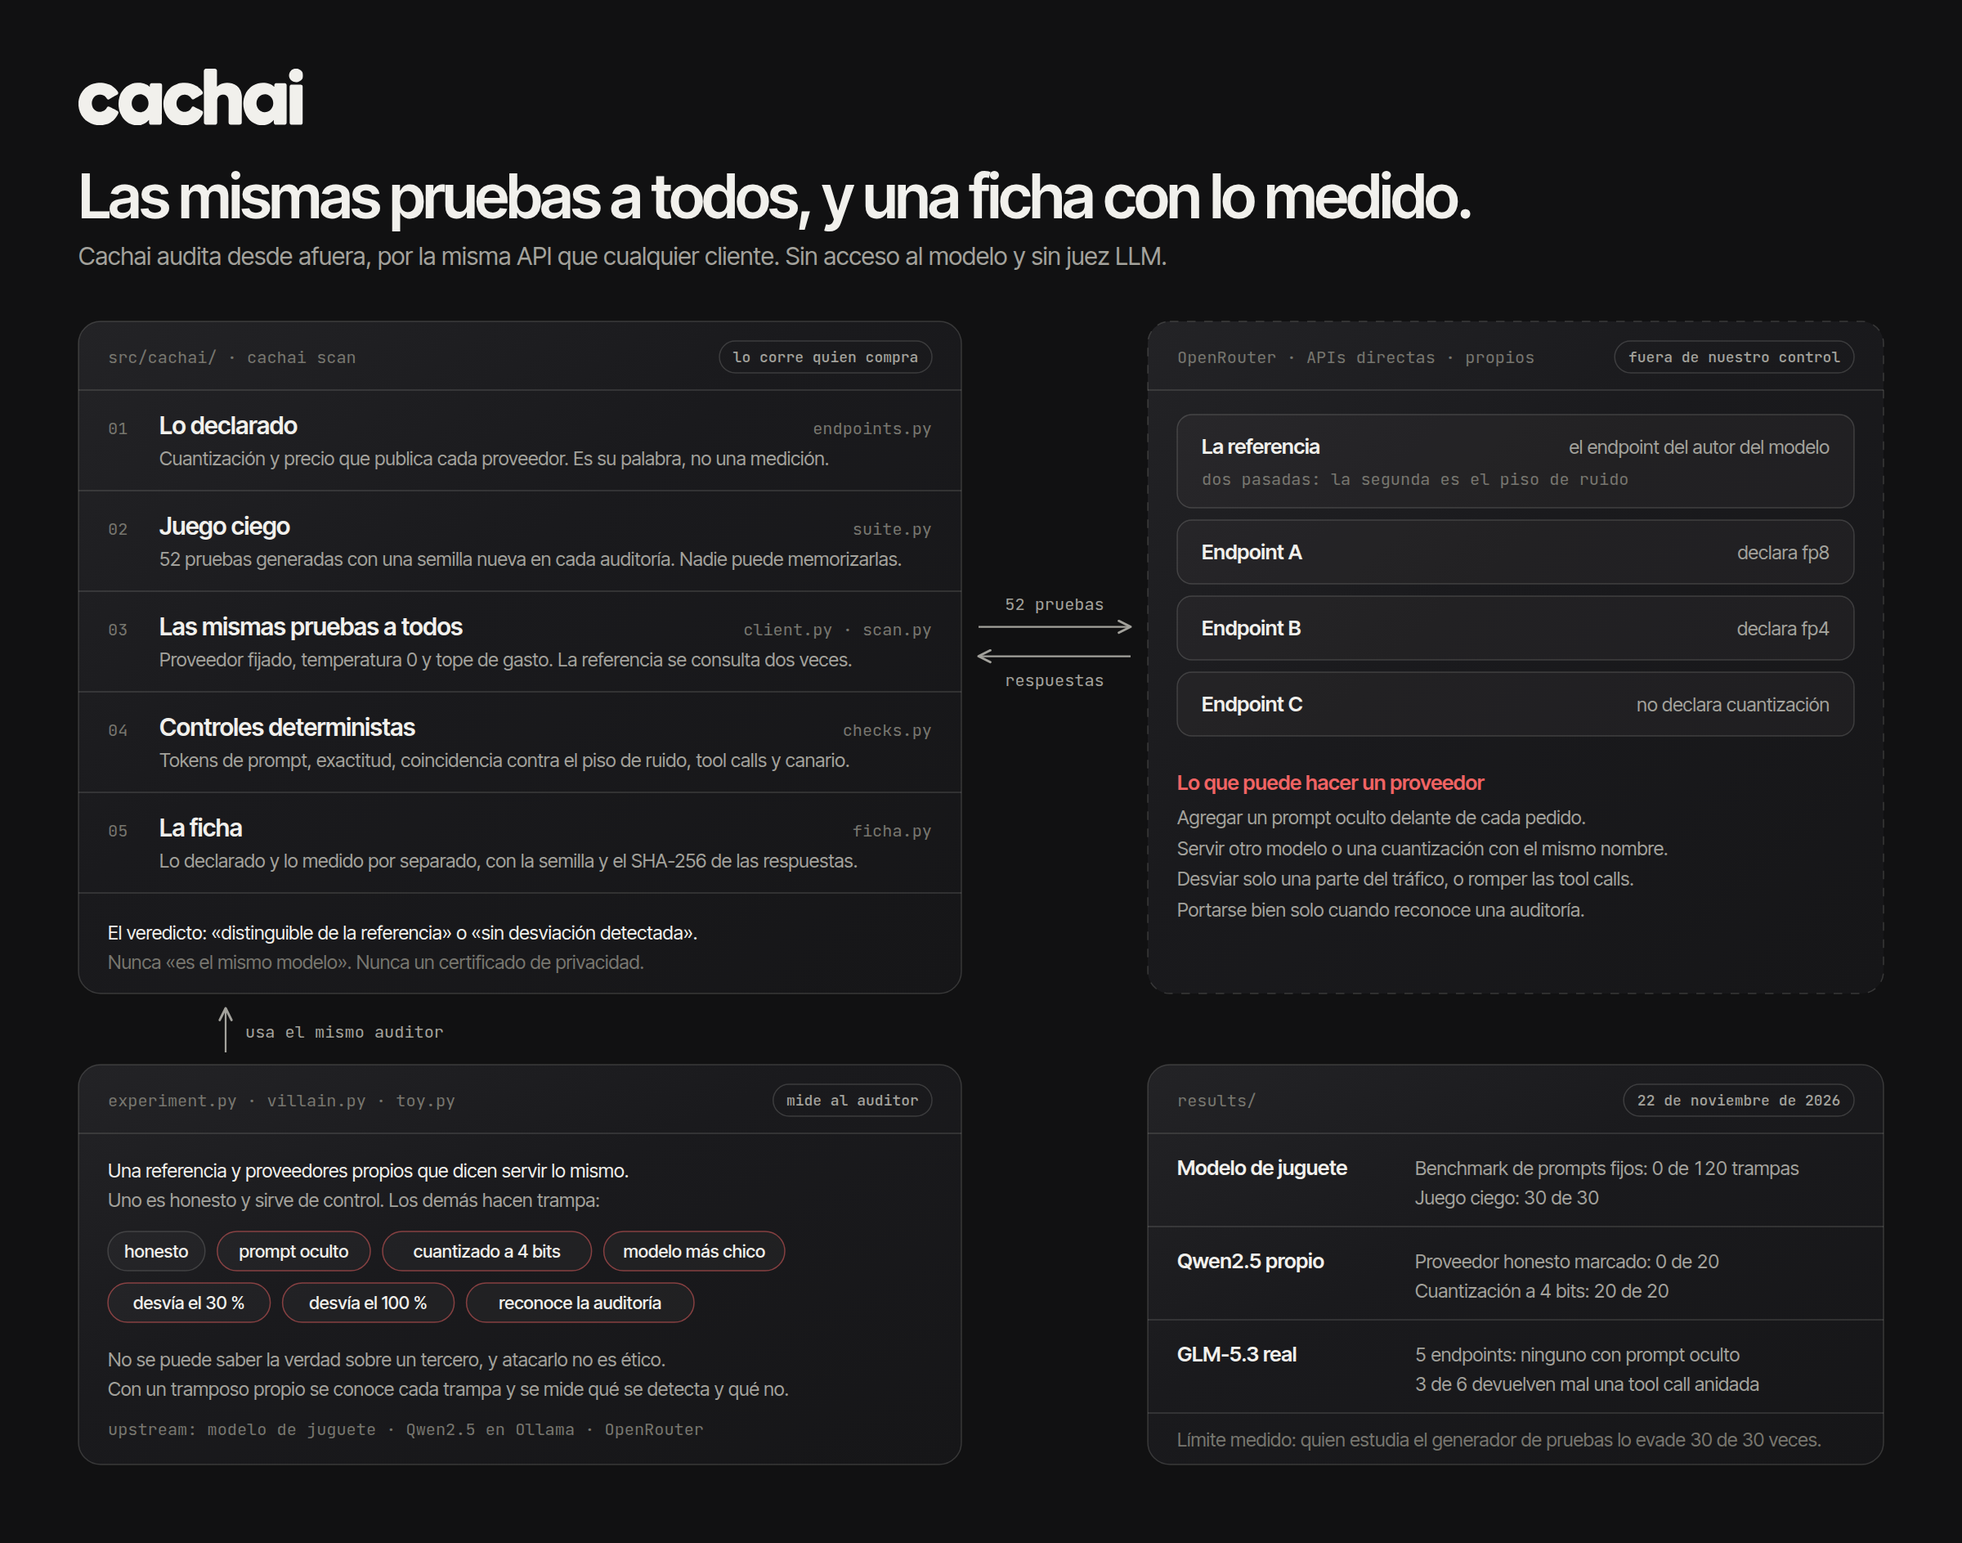
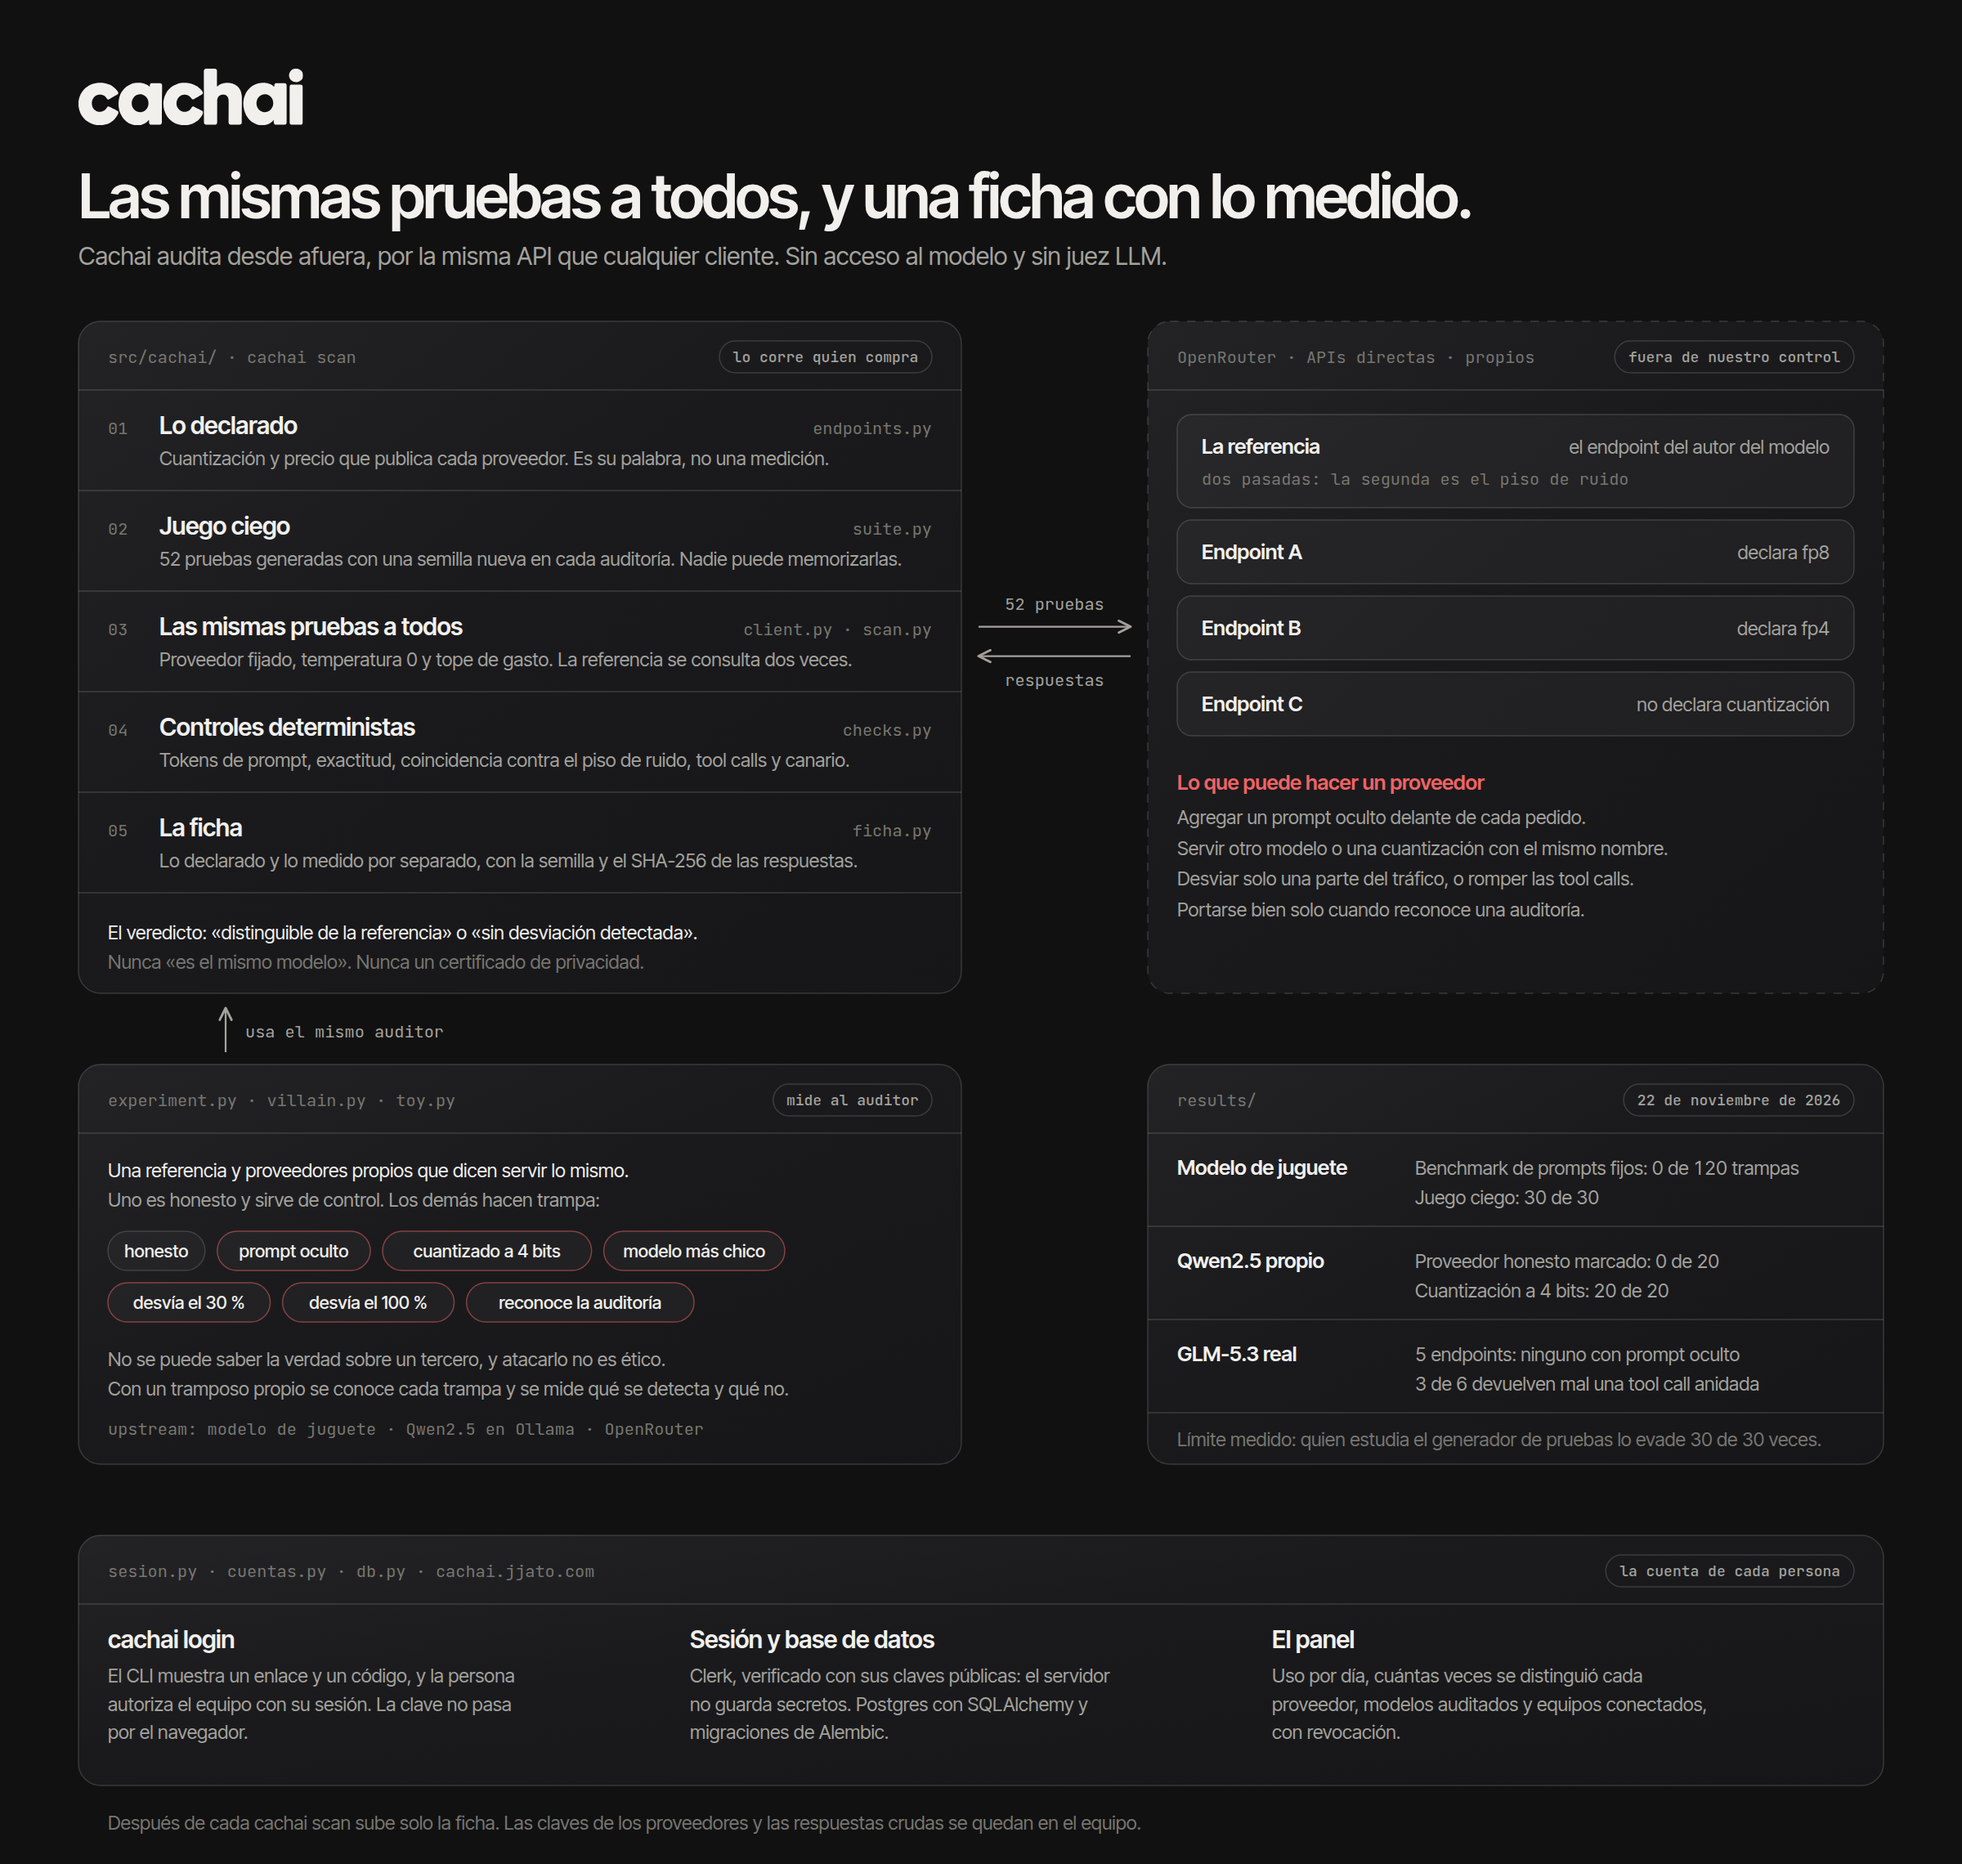
Documentación al día con las cuentas, y el diagrama con el bloque de cuentas y panel
El README explica las cuentas dentro de la arquitectura, los ejemplos y el
documento del auditor piden cachai login antes de scan, y la descripción
del proyecto suma la cuenta y el panel. El estado del auditor ya no dice
que nunca corrió contra proveedores reales.

diff --git a/README.md b/README.md
@@ -140,7 +140,7 @@ Tres reglas salieron de auditar proveedores reales y evitan marcar a alguien por
 
 ![Arquitectura de Cachai](docs/arquitectura.png)
 
-Son tres piezas: el **auditor**, que mide endpoints reales; el **laboratorio**, que mide al auditor contra proveedores tramposos propios; y la **ficha**, que publica lo medido con su evidencia.
+Son cuatro piezas: el **auditor**, que mide endpoints reales; el **laboratorio**, que mide al auditor contra proveedores tramposos propios; la **ficha**, que publica lo medido con su evidencia; y las **cuentas**, que guardan el historial de cada persona y lo muestran en un panel.
 
 **El auditor** (`cachai scan`) recorre cinco pasos:
 
@@ -153,6 +153,8 @@ Son tres piezas: el **auditor**, que mide endpoints reales; el **laboratorio**, 
 **El laboratorio** (`cachai experimento`) responde otra pregunta: ¿el auditor detecta lo que dice detectar? No se puede saber la verdad sobre un tercero, y atacarlo no es ético, así que el auditor se mide contra un proveedor tramposo propio (`villain.py`): un proxy que inyecta un prompt, desvía una fracción del tráfico a un modelo más barato y se porta bien cuando reconoce una auditoría. Una referencia y varios proxies hacia el mismo modelo (uno honesto, como control de falsas alarmas, y el resto tramposos) se auditan con el juego fijo y con el ciego. Corre sin claves contra un modelo de juguete (`toy.py`), contra un modelo real servido por nosotros con Ollama (Qwen2.5 en Q8, con proveedores que sirven Q4, Q2 o un modelo más chico) o contra OpenRouter.
 
 **La referencia** es el endpoint del autor del modelo cuando existe (si no, uno que se elige con `--reference`), consultado por la misma ruta que los demás. Así la comparación aísla al proveedor, sin GPU propia. Es una referencia más débil que correr el modelo original y la ficha lo dice.
+
+**Las cuentas** (`cachai login`, [cachai.jjato.com/panel](https://cachai.jjato.com/panel)) guardan la ficha de cada auditoría. El inicio de sesión es de Clerk y el servidor lo verifica con las claves públicas de la instancia, sin guardar ningún secreto. `cachai login` no pasa la clave por el navegador: el CLI inventa un verificador, la persona autoriza su huella con la sesión abierta y el CLI la canjea una sola vez. Los datos van a Postgres (SQLAlchemy y Alembic): usuarios, claves, auditorías y una fila de mediciones por endpoint, que es lo que suma el panel.
 
 Las decisiones, con las alternativas descartadas y su porqué, están en [`docs/arquitectura.md`](docs/arquitectura.md#3-decisiones-y-alternativas-descartadas).
 

diff --git a/docs/cachai-auditor.md b/docs/cachai-auditor.md
@@ -24,11 +24,14 @@ desviación detectada**, que no significa "es el mismo modelo".
 ```bash
 uv sync
 uv run cachai endpoints z-ai/glm-5.3          # sin clave: qué declara cada proveedor
+uv run cachai login                           # una vez: conecta este equipo con tu cuenta
 uv run cachai scan deepseek/deepseek-v4.1-flash --providers 6 --max-usd 2
 uv run cachai scan deepseek/deepseek-v4.1-flash --only wafer/us,sail-research/fp4 \
   --direct 50x=https://api.ai.50x.energy/v1,FIFTYX_API_KEY,deepseek-ai/DeepSeek-V4.1-Flash-1017
 ```
 
+- `scan` pide una cuenta (`cachai login`, una vez) y sube la ficha al panel; con
+  `--no-subir` queda solo en local.
 - `scan` necesita `OPENROUTER_API_KEY` en `.env`. La referencia es el proveedor
   first-party si está en la lista; si no, `--reference NOMBRE` o `consenso`.
 - Por defecto el juego de pruebas es ciego: se genera con una semilla que queda en la
@@ -85,14 +88,18 @@ Resultados en `results/linea-base/` y su lectura en [`arquitectura.md`](arquitec
 
 ## Estado (22-nov)
 
-- Corre de punta a punta contra el juguete y el tramposo; 27 tests (`uv run pytest -q`).
-- `cachai endpoints` está probado contra la API real de OpenRouter.
-- **Nunca corrió contra proveedores reales**: no había clave en `.env`. Falta confirmar
-  con una llamada que OpenRouter devuelve `prompt_tokens` nativos con el proveedor
-  fijado, que `provider.only` acepta el `tag` del endpoint y que los modelos con
-  razonamiento responden dentro de `max_tokens`.
+- 69 tests de punta a punta, sin red ni claves (`uv run pytest -q`).
+- Corrió contra proveedores reales: cinco endpoints de GLM-5.3 en OpenRouter contra el del
+  autor, 364 respuestas sin errores. La ficha y su lectura están en
+  [`results/proveedores/`](../results/proveedores/).
+- Corrió 20 veces por caso contra Qwen2.5 servido por nosotros en Ollama
+  ([`results/linea-base/`](../results/linea-base/)).
+- `cachai scan` pide una cuenta (`cachai login`) y sube la ficha al panel de
+  [cachai.jjato.com](https://cachai.jjato.com/panel); `cachai demo` no la pide.
 - Un proveedor que además falsee el `usage` no deja excedente de tokens; ahí solo queda
   la prueba de comportamiento.
 - Una sustitución del 30 % con 20 tareas no siempre se detecta por exactitud sola; por
   eso hay una prueba que suma todos los controles. Medido con el juguete: 6/30 con 20
   tareas y 30/30 con `--tasks 80`.
+- Con un modelo que no es determinista a temperatura 0 (pasó con GLM-5.3), el control de
+  coincidencia no tiene potencia.

diff --git a/examples/README.md b/examples/README.md
@@ -4,13 +4,15 @@ Todos se corren igual: `cachai scan -c <archivo>`, o se copia el archivo como `c
 
 Si todavía no se instaló: `uv tool install git+https://github.com/platanus-hack/platanus-hack-26-cl-team-43` (o `pipx install` con la misma URL).
 
+`cachai scan` pide una cuenta gratuita: corre `cachai login` una vez y cada auditoría queda en tu panel, en [cachai.jjato.com/panel](https://cachai.jjato.com/panel). `cachai demo` no la pide. Con `--no-subir` la ficha queda solo en tu equipo.
+
 | Archivo | Para qué | Claves |
 |---|---|---|
 | (ninguno) `cachai demo` | Ver cómo funciona en 10 segundos: un proveedor honesto y dos tramposos de juguete | Ninguna |
 | [`openrouter.toml`](openrouter.toml) | Auditar los proveedores de un modelo abierto en OpenRouter contra el del autor | `OPENROUTER_API_KEY` |
 | [`autor-contra-revendedores.toml`](autor-contra-revendedores.toml) | Comparar la API del autor con las de proveedores que lo revenden, directo y sin OpenRouter | La de cada proveedor |
 | [`servidor-propio.toml`](servidor-propio.toml) | Comprobar que tu vLLM, SGLang u Ollama (o una cuantización nueva) responde igual que la referencia antes de pasar a producción | Opcional |
-| [`github-actions/cachai.yml`](github-actions/cachai.yml) | Auditoría semanal automática; el job falla si un endpoint sale distinguible (`--strict`) | `OPENROUTER_API_KEY` como secreto |
+| [`github-actions/cachai.yml`](github-actions/cachai.yml) | Auditoría semanal automática; el job falla si un endpoint sale distinguible (`--strict`) | `OPENROUTER_API_KEY` y `CACHAI_API_KEY` como secretos |
 
 ## Lo mismo sin archivo
 
@@ -64,4 +66,4 @@ La referencia es contra qué se compara. Lo mejor es la API del autor del modelo
 
 ## Qué cuesta
 
-Una auditoría manda 48 pruebas cortas a cada endpoint y a la referencia dos veces. Con un modelo de precio medio son centavos de dólar por endpoint; `--max-usd` corta la auditoría si se pasa del tope (2 USD por defecto) y la ficha registra lo gastado. Contra servidores propios el costo es solo el cómputo.
+Una auditoría manda 52 pruebas cortas a cada endpoint y a la referencia dos veces. Con un modelo de precio medio son centavos de dólar por endpoint; `--max-usd` corta la auditoría si se pasa del tope (2 USD por defecto) y la ficha registra lo gastado. Contra servidores propios el costo es solo el cómputo.

diff --git a/project-description.md b/project-description.md
@@ -30,7 +30,11 @@ La auditoría corre del lado de quien usa el modelo y no la financia quien lo si
 - **Confiabilidad:** errores y latencia.
 - **Lo declarado:** cuantización y precio, tal como los publica cada proveedor.
 
-Los controles son deterministas, sin juez LLM: la respuesta auditada no puede inyectar al auditor. Las pruebas se generan con una semilla nueva en cada auditoría, así un proveedor no puede reconocerlas de antemano. La semilla queda en la ficha junto con el hash de las respuestas crudas, para que cualquiera pueda volver a correr la misma auditoría.
+Los controles son deterministas, sin juez LLM: la respuesta auditada no puede inyectar al auditor. Las pruebas se generan con una semilla nueva en cada auditoría, así un proveedor no puede memorizarlas de antemano. La semilla queda en la ficha junto con el hash de las respuestas crudas, para que cualquiera pueda volver a correr la misma auditoría.
+
+## Cuenta y panel
+
+Auditar endpoints reales pide una cuenta gratuita. `cachai login` conecta la terminal con la cuenta desde el navegador, y cada auditoría queda guardada en un [panel](https://cachai.jjato.com/panel) con el uso por día, cuántas veces se distinguió cada proveedor y qué modelos se auditaron. Al servidor viaja solo la ficha: las claves de los proveedores y las respuestas crudas se quedan en el equipo de quien audita.
 
 ## Qué muestra la demo
 
@@ -53,5 +57,6 @@ La [demo en vivo](https://cachai.jjato.com) sirve Qwen2.5 1.5B desde tres APIs c
 ## Qué hay en el repo
 
 - **Auditor** (`src/cachai/`): el comando `cachai`, los controles, la ficha y el proveedor tramposo de la demo.
+- **Cuentas y panel** (`src/cachai/cuentas.py`, `db.py`, `sesion.py`): inicio de sesión con Clerk, Postgres con migraciones y el panel de cada cuenta.
 - **Experimento de línea base** (`results/linea-base/`): benchmark de prompts fijos contra el juego ciego.
 - **Diseño** (`docs/arquitectura.md`): modelo de amenaza, decisiones, medición y riesgos.
